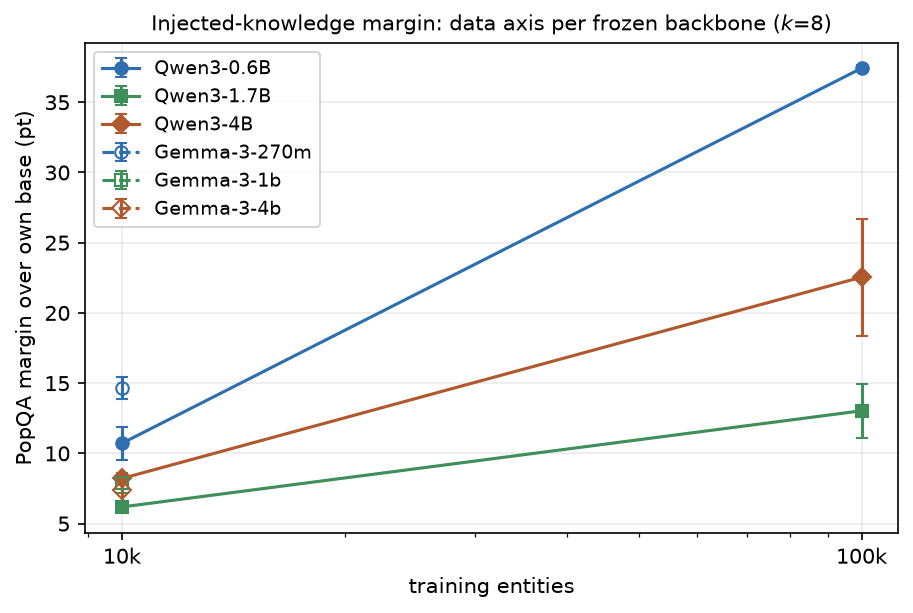
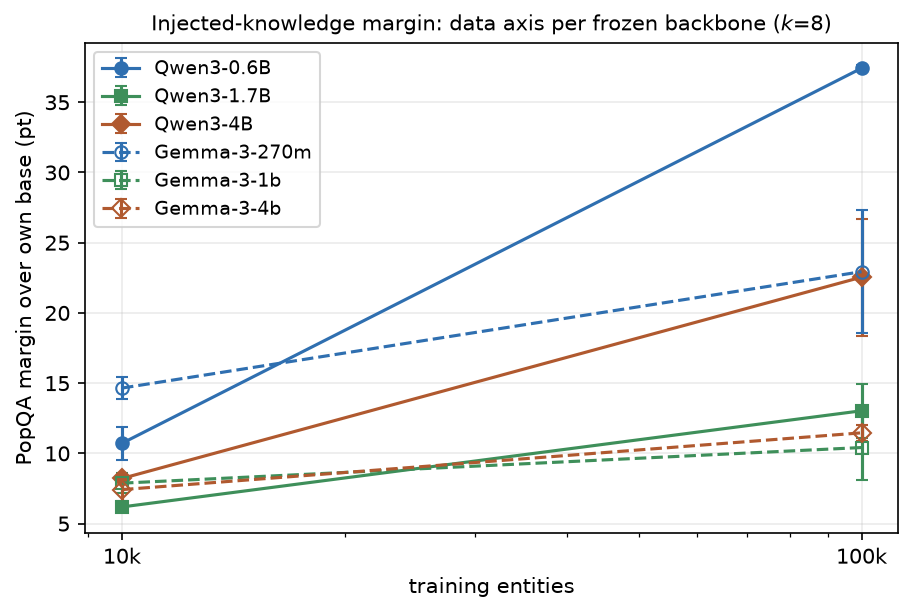
Fig 4: add the missing Gemma 100k points to the grid figure
The figure script's GRID dict was never given the Gemma 100k checkpoint names
when those cells landed, so fig_grid plotted Gemma at 10k only while Table 5
carried both scales. All six backbones now show both corpus points.

Claude-Session: https://claude.ai/code/session_01UNefkRAg5SSdSiFHusGje6

diff --git a/v2/scripts/cf2_figures.py b/v2/scripts/cf2_figures.py
@@ -96,9 +96,18 @@ GRID = {  # backbone -> corpus -> checkpoint names (k=8, before_entity)
         "10k": [f"q3b4_10k_k8_s{s}_best" for s in range(3)],
         "100k": [f"q3b4_100k_k8_s{s}_best" for s in range(3)],
     },
-    "Gemma-3-270m": {"10k": [f"gemma3-270m_10k_k8_s{s}_best" for s in range(3)]},
-    "Gemma-3-1b": {"10k": [f"gemma3-1b_10k_k8_s{s}_best" for s in range(3)]},
-    "Gemma-3-4b": {"10k": [f"gemma3-4b_10k_k8_s{s}_best" for s in range(3)]},
+    "Gemma-3-270m": {
+        "10k": [f"gemma3-270m_10k_k8_s{s}_best" for s in range(3)],
+        "100k": [f"gemma3-270m_100k_k8_s{s}_best" for s in range(3)],
+    },
+    "Gemma-3-1b": {
+        "10k": [f"gemma3-1b_10k_k8_s{s}_best" for s in range(3)],
+        "100k": [f"gemma3-1b_100k_k8_s{s}_best" for s in range(3)],
+    },
+    "Gemma-3-4b": {
+        "10k": [f"gemma3-4b_10k_k8_s{s}_best" for s in range(3)],
+        "100k": [f"gemma3-4b_100k_k8_s{s}_best" for s in range(3)],
+    },
 }
 fig2, ax = plt.subplots(figsize=(6.2, 4.2))
 X = {"10k": 10_000, "100k": 100_000}
